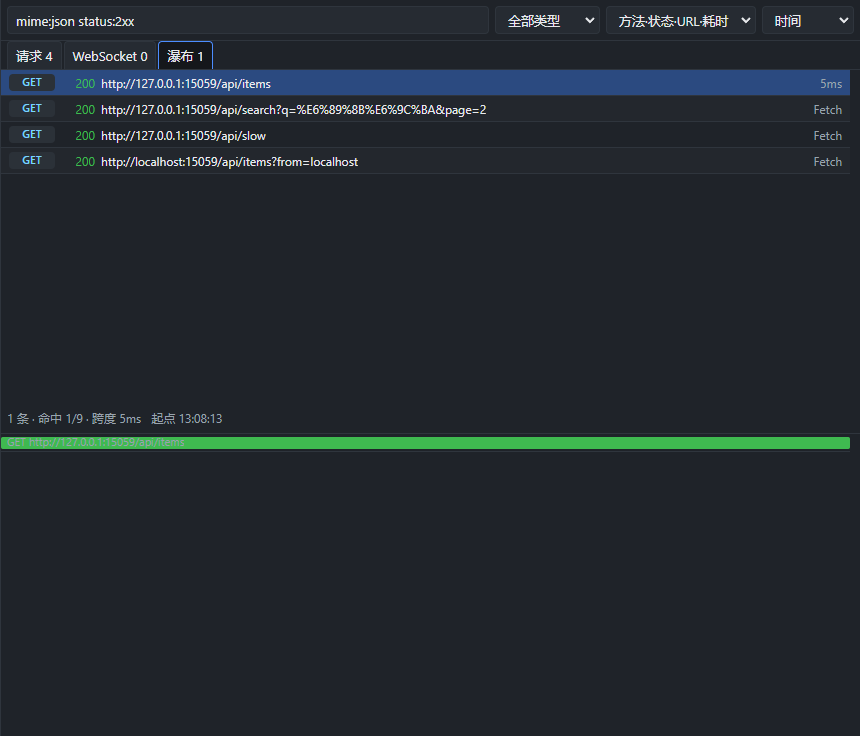
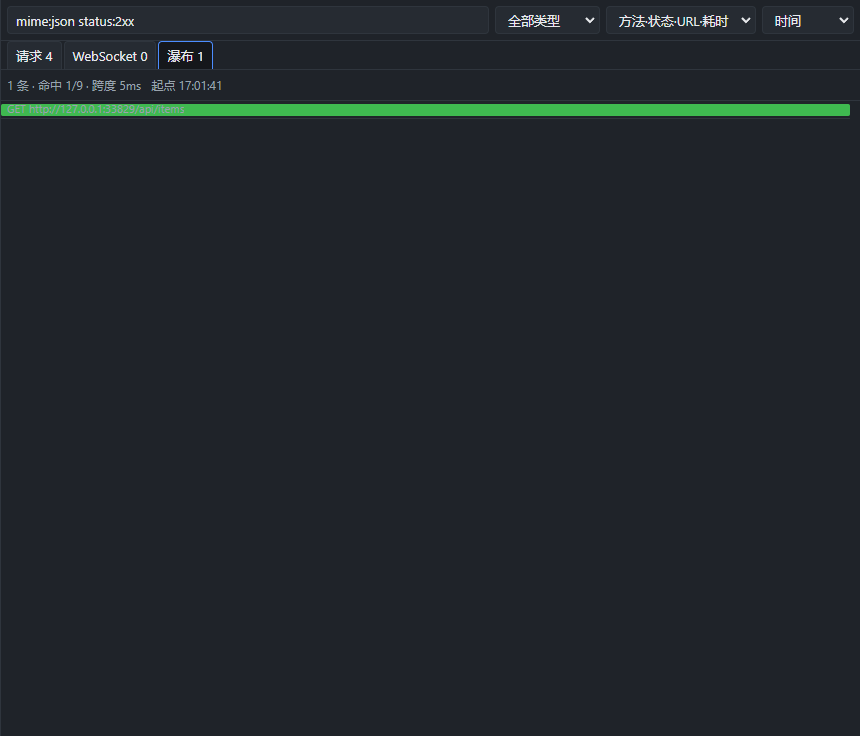
docs: 同步断言数与已知限制，重生成手册截图（瀑布视图不再压着请求列表）
- 断言数 165 → 180（README 两处、manual 命令表一处），以自检末尾打印值为准
- 沙盒说明补上「Chromium 持久分区一起改道」：自检的「一键清理」只清沙盒分区，
  不再碰真实登录态（此前承诺与行为矛盾）
- 编号不变式更正：原文「切标签时两个标签的记录编号不重叠」是错的，
  改为「每个标签内单调递增、跨标签不保证唯一，面板切标签时收起详情与选中」
- 补页面权限策略（只放行 fullscreen / clipboard-sanitized-write / pointerLock /
  window-placement，其余拒绝并提示）
- WebSocket 帧上限补一句面板侧也只保留最近 2000 帧
- bench 指标口径：原「DOM 就绪」实为「记录入内存」耗时，已改名；过滤命中数原本
  在过滤清空后才读，恒等于总行数，改在过滤生效时读
- shots 的面板截图不再硬编码 y:164，改用 main.js 注入的 TOOLBAR_H（同一份常量）
- shots 的 Mock 截图等待条件原为恒真（rows.size 累计值本轮之前就 >= 8），
  改为等「新增记录且状态码已被改写」，12-mock.png 现在拍到的是真的命中（命中 1 次）
- 重生成 13 张手册截图：04-waterfall.png 里不再有压在瀑布上方的 4 行请求列表

Changed region(s): [[0.0, 0.0938, 0.9977, 0.25], [0.0, 0.5625, 0.9977, 0.625], [0.9372, 0.2188, 0.9674, 0.25]]

diff --git a/README.md b/README.md
@@ -279,7 +279,7 @@ WCT_BENCH_N=1200 npm run bench   # 换负载（默认 800 个并发请求）
 
 ```bash
 npm start               # 开发态直接跑（Electron 22 + ia32 运行时）
-npm run selftest        # 165 项断言：抓取 / 发起者与耗时分解 / 提取（CSS+XPath）/ 翻页合并与任务预设 / 规则落盘 / Mock 改写 / OpenAPI 导出 / 自动化 / 存盘 / 离线包 / 持久化 / 图标 / UI / 排序分组与虚拟滚动 / 快照对比 / 录制与重放 / 多标签 / 分析导出 / 页面工具 / 性能 / 软件渲染降级 / 下载 / 代理
+npm run selftest        # 180 项断言：抓取 / 发起者与耗时分解 / 提取（CSS+XPath）/ 翻页合并与任务预设 / 规则落盘 / Mock 改写 / OpenAPI 导出 / 自动化 / 存盘 / 离线包 / 持久化 / 图标 / UI / 排序分组与虚拟滚动 / 快照对比 / 录制与重放 / 多标签 / 分析导出 / 页面工具 / 性能 / 软件渲染降级 / 下载 / 代理 / 详情转义与导航守卫 / 视图互斥 / 编号不回退 / 沙盒隔离 / 落盘不覆盖 / 退出收尾 / 会话原子写 / 权限策略
 npm run selftest:sw     # 同一套断言在软件渲染下再跑一遍（等价于无显卡机器）
 npm run bench           # 性能基准：抓包 CPU / 列表渲染 / 过滤 / 排序 / 序列化 / 内存
 npm run bench:sw        # 基准跑在软件渲染下（无显卡机器上的真实数字）
@@ -290,12 +290,12 @@ npm run pack:dir        # 只生成免安装目录（可单独跑，配合 --ico
 npm run pack:zip        # 只把目录压成 zip
 ```
 
-自检会在本地起一个测试服务器并驱动真实窗口完成全链路验证；运行期间配置、日志与会话文件都会改道到系统临时目录（`wct-selftest-*`），不影响你的真实配置。脚本弹出的系统保存/目录对话框无法自动化，对应功能通过传入路径参数绕过验证。整套断言在本机（Ryzen 7 3700X）约 80 秒，看门狗上限 10 分钟 —— 老机器上整套时间会成倍增长，留足余量。
+自检会在本地起一个测试服务器并驱动真实窗口完成全链路验证；运行期间配置、日志、会话文件**以及 Chromium 持久分区（Cookie / localStorage / 缓存）**都会改道到系统临时目录（`wct-selftest-*`），不影响你的真实配置与登录态。脚本弹出的系统保存/目录对话框无法自动化，对应功能通过传入路径参数绕过验证。整套断言在本机（Ryzen 7 3700X）约 80 秒，看门狗上限 10 分钟 —— 老机器上整套时间会成倍增长，留足余量。
 
 **打包版也能自检与跑基准**（老机器上不用装 Node/npm，直接把 zip 解压后执行）：
 
 ```bash
-web-capture-tool.exe --selftest   # 165 项断言（改道 wct-selftest-*，不碰你的配置与登录态）
+web-capture-tool.exe --selftest   # 180 项断言（改道 wct-selftest-*，不碰你的配置与登录态）
 web-capture-tool.exe --bench      # 性能基准（改道 wct-bench-*，打印该机器自己的数字）
 web-capture-tool.exe --bench --software-rendering   # 基准跑在软件渲染下
 ```
@@ -366,7 +366,8 @@ docs/                面向使用者的文档
 - 关闭标签的「撤销」恢复的是**新视图 + 原抓包记录 + 原 URL**：浏览历史、页面滚动与表单状态不恢复；撤销窗口 10 秒，只保留最近一次关闭。
 - 列表按窗口渲染（虚拟滚动）：DOM 只保留可见窗口的行，滚动时行节点会复用重建（出现极短暂的空白属于渲染节奏，不是丢数据）；导出、复制、统计、详情始终按内存里的全部记录算。
 - 抓包事件按 100ms 合并推送到面板：列表行最多晚 100ms 出现（切标签与「清空」会立即冲刷）；同一记录在同一批里只保留最后一次更新。
-- 列表按 id 差量同步：切标签时两个标签的记录编号不重叠，等价于全量重建；收益出现在「同一批数据重刷」（会话恢复、重复的标签切换通知）时不再重建 DOM，滚动位置与悬浮状态得以保留。
+- 记录编号在**每个标签内**单调递增（清空与「恢复上次会话」之后都从当前最大值继续编，不回退）；**跨标签不保证唯一**，因此面板在切标签 / 整表重刷时一律收起详情与选中，避免按旧编号复制到新标签的另一条记录。
+- 列表按 id 差量同步：收益出现在「同一批数据重刷」（会话恢复、重复的标签切换通知）时不再重建 DOM，滚动位置与悬浮状态得以保留。
 - 响应体全文搜索只覆盖已保存的**文本**响应体（二进制与未捕获的跳过）；改过滤条件后 300ms 重算命中集合。
 - 「清理数据」立即生效且不可撤销；清理 Cookie / Storage 会让相关站点退出登录。
 - 窗口不带系统菜单栏（Electron 默认菜单已移除）：页面缩放（`Ctrl+0` / `Ctrl+±`）不再有快捷键，文本框的 `Ctrl+C/V/X/A/Z` 是 Chromium 原生编辑命令，不受影响。
@@ -374,6 +375,7 @@ docs/                面向使用者的文档
 - WebSocket 视图的「清空显示」只清界面：`state.wsFrames` 不动，切标签或改过滤条件会重新载入帧。
 - 会话恢复只会把记录灌回当前标签，保存时的标签布局在后台重新打开（不抢当前标签，页面内容不还原）。
 - 「忽略证书错误」只影响本次运行内的连接判定，不改动系统证书库。
+- 页面权限默认只放行 `fullscreen` / `clipboard-sanitized-write` / `pointerLock` / `window-placement`（抓包浏览器自身需要）；摄像头、麦克风、地理位置、通知、MIDI 等一律拒绝，并在面板提示与日志里留一条记录（`main.js` 的 `ALLOWED_PERMS`，需要放开时改那一行）。
 - 站点要求 Basic 认证且设置里未填用户名时，会取消请求并在状态栏提示（不弹系统输入框）。
 - 「测代理」会给当前站点真发一次请求（10s 超时）验证出口；解析到的代理来自 `resolveProxy`，是否真正可用取决于代理服务本身。
 - 下载不接管保存路径：文件按 Chromium 默认落到系统下载目录（`app.getPath('downloads')`），工具只提示进度与结果；`--selftest` 运行时会改道到临时目录。

diff --git a/docs/manual.md b/docs/manual.md
@@ -140,7 +140,7 @@
 
 - 面板 `WebSocket` 标签页查看收发帧（方向、opcode、内容、时间）。
 - `暂停`：暂停后新帧不再进列表（数据仍在主进程）；`帧内容过滤`：按子串过滤；`清空显示`只清界面。
-- 帧上限 2000 条，超出丢弃最早的。
+- 帧上限 2000 条，超出丢弃最早的（主进程内存与面板 DOM 各自保留最近 2000 帧）。
 
 ### 4.5 瀑布视图
 
@@ -532,7 +532,7 @@ fetch @ http://site/js/app.min.js:1024:87
 | 命令 | 作用 |
 |---|---|
 | `npm start` | 开发态启动 |
-| `npm run selftest` | 全链路自检（165 项断言；配置/日志/会话改道到系统临时目录，不碰真实数据） |
+| `npm run selftest` | 全链路自检（180 项断言；配置/日志/会话/**浏览器持久分区**都改道到系统临时目录，不碰真实数据与登录态） |
 | `npm run selftest:sw` | 同一套断言在软件渲染下再跑一遍（等价无显卡机器） |
 | `npm run bench` / `npm run bench:sw` | 性能基准（压力服务器 + 面板/主进程计时） |
 | `npm run shots` | 重新生成本手册的截图到 `docs/img/`（起本地示例站点，配置/日志/会话同样改道临时目录） |
@@ -541,7 +541,7 @@ fetch @ http://site/js/app.min.js:1024:87
 | `web-capture-tool.exe --selftest` | 打包版自检（同样改道临时目录） |
 | `web-capture-tool.exe --bench` | 打包版基准；加 `--software-rendering` 跑软件渲染 |
 
-自检与基准都会在本地起一台测试服务器并驱动真实窗口；脚本弹出的系统保存/目录对话框无法自动化，对应功能通过传入路径参数绕过验证。整套断言在本机约 80 秒，看门狗上限 10 分钟（老机器整套时间会成倍增长）。
+自检与基准都会在本地起一台测试服务器并驱动真实窗口；运行期间配置、日志、会话文件与 Chromium 持久分区（Cookie / localStorage / 缓存）全部改道到 `%TEMP%\wct-<模式>*`，自检里那条「一键清理」也只清沙盒分区，不会碰你的真实登录态。脚本弹出的系统保存/目录对话框无法自动化，对应功能通过传入路径参数绕过验证。整套断言在本机约 80 秒，看门狗上限 10 分钟（老机器整套时间会成倍增长）。
 
 本手册里的截图全部来自 `npm run shots`：本地示例站点 + 临时目录里的沙盒配置，不涉及任何真实站点、账号或路径。
 
